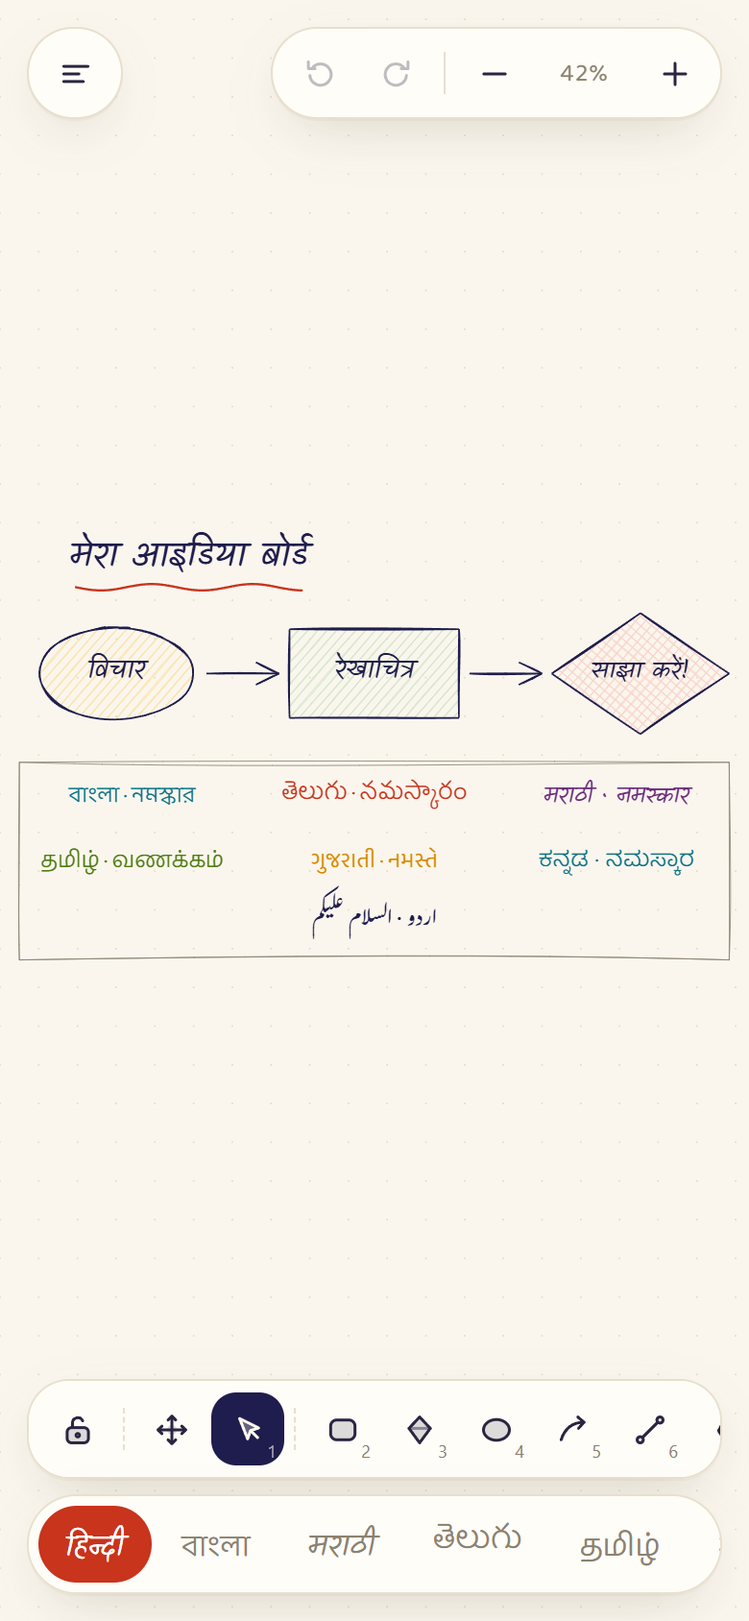
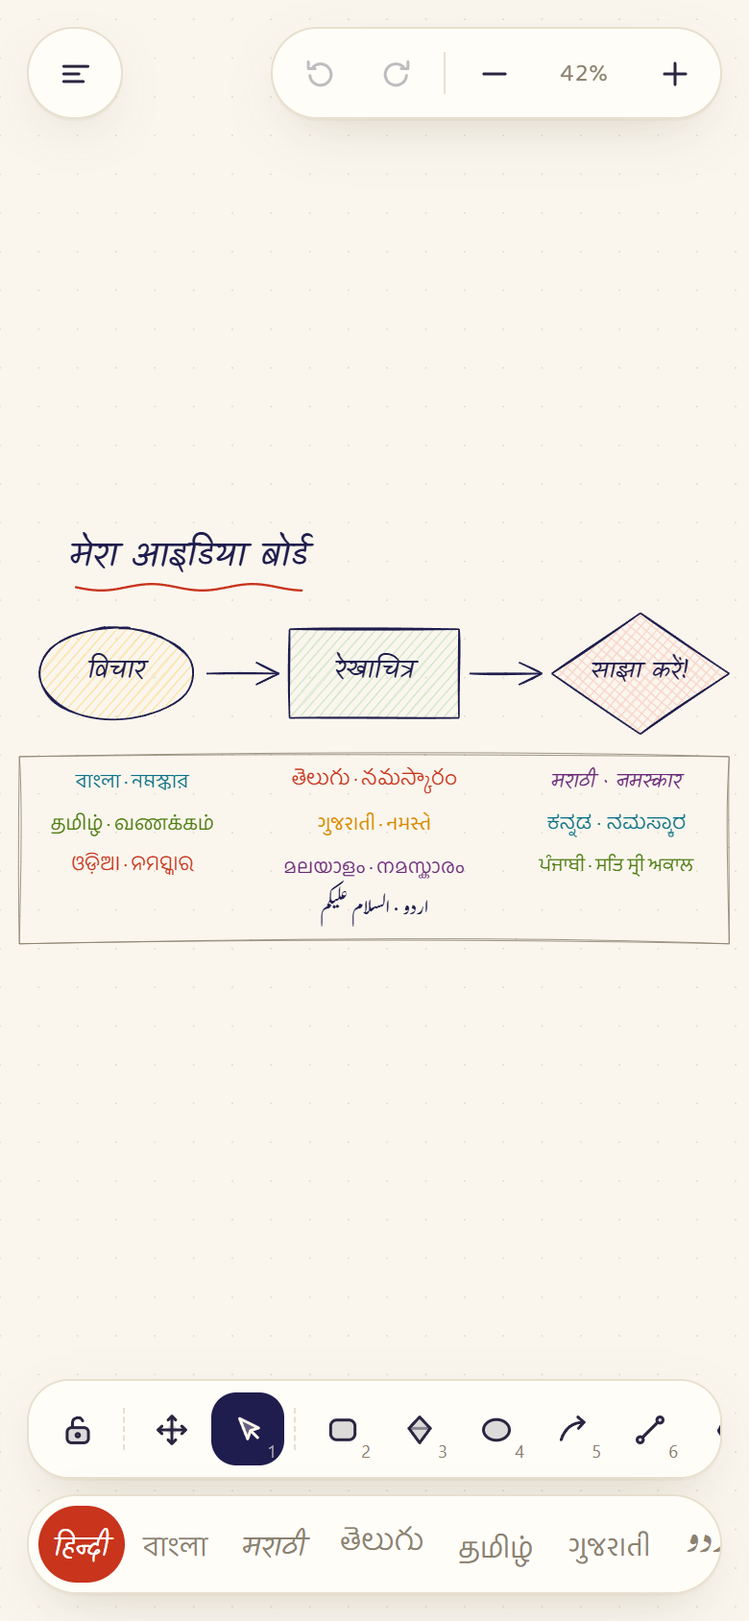
Add Malayalam, Odia and Punjabi
- UI translations, Baloo Chettan/Bhaina/Paaji fonts, script buttons
- Phonetic typing: Malayalam chillus and final anusvara, Odia ୟ,
  Gurmukhi tippi/addak and plain clusters
- README and screenshots/GIFs updated for 11 languages

diff --git a/i18n.js b/i18n.js
@@ -1,5 +1,5 @@
-// UI translations for the 8 most-spoken Indian languages (Census 2011) + English.
-// Order: Hindi, Bengali, Marathi, Telugu, Tamil, Gujarati, Urdu, Kannada.
+// UI translations for the 11 most-spoken Indian languages (Census 2011) + English.
+// Order: Hindi, Bengali, Marathi, Telugu, Tamil, Gujarati, Urdu, Kannada, Odia, Malayalam, Punjabi.
 
 window.SCRIPTS = {
   latn: { name: 'Latin',      glyph: 'Aa', font: 'Kalam',            lh: 1.4,  rtl: false },
@@ -10,12 +10,16 @@ window.SCRIPTS = {
   gujr: { name: 'ગુજરાતી',     glyph: 'અ',  font: 'Baloo Bhai 2',     lh: 1.45, rtl: false },
   arab: { name: 'اردو',        glyph: 'ا',  font: 'Gulzar',           lh: 1.95, rtl: true  },
   knda: { name: 'ಕನ್ನಡ',       glyph: 'ಅ',  font: 'Baloo Tamma 2',    lh: 1.5,  rtl: false },
+  orya: { name: 'ଓଡ଼ିଆ',        glyph: 'ଅ',  font: 'Baloo Bhaina 2',   lh: 1.5,  rtl: false },
+  mlym: { name: 'മലയാളം',     glyph: 'അ',  font: 'Baloo Chettan 2',  lh: 1.5,  rtl: false },
+  guru: { name: 'ਗੁਰਮੁਖੀ',      glyph: 'ਅ',  font: 'Baloo Paaji 2',    lh: 1.5,  rtl: false },
 };
 
 // Example word shown in the phonetic-typing hint, per script.
 window.PHONETIC_EXAMPLES = {
   deva: 'namaste', beng: 'namaskaar', telu: 'telugu', taml: 'vaNakkam',
   gujr: 'gujaraatee', arab: 'salaam', knda: 'kannaDa',
+  orya: 'namaskaar', mlym: 'malayaaLam', guru: 'panjaabee',
 };
 
 window.LANGS = {
@@ -27,6 +31,9 @@ window.LANGS = {
   gu: { native: 'ગુજરાતી', script: 'gujr', ui: 'Baloo Bhai 2', rtl: false },
   ur: { native: 'اردو', script: 'arab', ui: 'Noto Naskh Arabic', rtl: true },
   kn: { native: 'ಕನ್ನಡ', script: 'knda', ui: 'Baloo Tamma 2', rtl: false },
+  or: { native: 'ଓଡ଼ିଆ', script: 'orya', ui: 'Baloo Bhaina 2', rtl: false },
+  ml: { native: 'മലയാളം', script: 'mlym', ui: 'Baloo Chettan 2', rtl: false },
+  pa: { native: 'ਪੰਜਾਬੀ', script: 'guru', ui: 'Baloo Paaji 2', rtl: false },
   en: { native: 'English', script: 'latn', ui: 'Baloo 2', rtl: false },
 };
 
@@ -174,5 +181,53 @@ window.STRINGS = {
     welcomeSub: 'ಒಂದು ಉಪಕರಣವನ್ನು ಆರಿಸಿ ಚಿತ್ರಿಸಲು ಪ್ರಾರಂಭಿಸಿ. ಬರೆಯಲು ಎಲ್ಲಿಯಾದರೂ ಡಬಲ್-ಕ್ಲಿಕ್ ಮಾಡಿ.',
     theme: 'ಡಾರ್ಕ್ ಮೋಡ್', layers: 'ಪದರಗಳು', actions: 'ಕ್ರಿಯೆಗಳು', zoomIn: 'ಝೂಮ್ ಇನ್', zoomOut: 'ಝೂಮ್ ಔಟ್',
     resetZoom: 'ಝೂಮ್ ಮರುಹೊಂದಿಸಿ', sample: 'ನಮಸ್ಕಾರ ಜಗತ್ತು',
+  },
+  or: {
+    appName: 'ରେଖା', select: 'ଚୟନ', hand: 'ହାତ (ଘୁଞ୍ଚାନ୍ତୁ)', rect: 'ଆୟତକ୍ଷେତ୍ର', diamond: 'ହୀରା',
+    ellipse: 'ଉପବୃତ୍ତ', arrow: 'ତୀର', line: 'ରେଖା', draw: 'ପେନ୍ସିଲ', text: 'ଲେଖା', eraser: 'ରବର',
+    lock: 'ଉପକରଣ ସକ୍ରିୟ ରଖନ୍ତୁ', stroke: 'ରେଖାର ରଙ୍ଗ', background: 'ପୃଷ୍ଠଭୂମି', fill: 'ଭରଣ', hachure: 'ତେରଛା ରେଖା',
+    cross: 'ଜାଲି', solid: 'ଘନ', strokeWidth: 'ରେଖାର ମୋଟେଇ', thin: 'ପତଳା', bold: 'ମୋଟା',
+    extraBold: 'ବହୁତ ମୋଟା', sloppiness: 'ଅସଜଡ଼ା', architect: 'ସ୍ଥପତି', artist: 'କଳାକାର',
+    cartoonist: 'କାର୍ଟୁନିଷ୍ଟ', opacity: 'ଅସ୍ୱଚ୍ଛତା', fontSize: 'ଅକ୍ଷରର ଆକାର', small: 'ଛୋଟ', medium: 'ମଧ୍ୟମ',
+    large: 'ବଡ଼', huge: 'ବହୁତ ବଡ଼', script: 'ଲିପି', phonetic: 'ଧ୍ୱନିଭିତ୍ତିକ ଟାଇପିଂ (ରୋମାନ → ଲିପି)',
+    undo: 'ପୂର୍ବାବସ୍ଥାକୁ ଫେରନ୍ତୁ', redo: 'ପୁଣି କରନ୍ତୁ', delete: 'ବିଲୋପ କରନ୍ତୁ', duplicate: 'ନକଲ କରନ୍ତୁ', front: 'ସବୁଠୁ ଆଗକୁ ଆଣନ୍ତୁ',
+    back: 'ସବୁଠୁ ପଛକୁ ପଠାନ୍ତୁ', clear: 'କ୍ୟାନଭାସ ସଫା କରନ୍ତୁ', clearConfirm: 'ପୂରା କ୍ୟାନଭାସ ସଫା କରିବେ କି?',
+    exportPng: 'PNG ରପ୍ତାନି', exportSvg: 'SVG ରପ୍ତାନି', save: 'ଫାଇଲରେ ସଞ୍ଚୟ କରନ୍ତୁ', open: 'ଫାଇଲ ଖୋଲନ୍ତୁ',
+    lang: 'ଭାଷା', welcome: 'ଆପଣଙ୍କ ଚିନ୍ତାଧାରା ଆଙ୍କନ୍ତୁ!',
+    welcomeSub: 'ଏକ ଉପକରଣ ବାଛି ଆଙ୍କିବା ଆରମ୍ଭ କରନ୍ତୁ। ଲେଖିବା ପାଇଁ ଯେକୌଣସି ସ୍ଥାନରେ ଡବଲ-କ୍ଲିକ କରନ୍ତୁ।',
+    theme: 'ଡାର୍କ ମୋଡ', layers: 'ସ୍ତର', actions: 'କାର୍ଯ୍ୟ', zoomIn: 'ଜୁମ ଇନ', zoomOut: 'ଜୁମ ଆଉଟ',
+    resetZoom: 'ଜୁମ ରିସେଟ', sample: 'ନମସ୍କାର ଦୁନିଆ',
+  },
+  ml: {
+    appName: 'രേഖ', select: 'തിരഞ്ഞെടുക്കുക', hand: 'കൈ (നീക്കുക)', rect: 'ദീർഘചതുരം', diamond: 'വജ്രം',
+    ellipse: 'ദീർഘവൃത്തം', arrow: 'അമ്പ്', line: 'വര', draw: 'പെൻസിൽ', text: 'എഴുത്ത്', eraser: 'മായ്ക്കൽ',
+    lock: 'ഉപകരണം സജീവമാക്കി വയ്ക്കുക', stroke: 'വരയുടെ നിറം', background: 'പശ്ചാത്തലം', fill: 'നിറയ്ക്കൽ', hachure: 'ചരിഞ്ഞ വരകൾ',
+    cross: 'വല', solid: 'കട്ടി', strokeWidth: 'വരയുടെ കനം', thin: 'നേർത്ത', bold: 'കനത്ത',
+    extraBold: 'വളരെ കനത്ത', sloppiness: 'അലസത', architect: 'വാസ്തുശില്പി', artist: 'കലാകാരൻ',
+    cartoonist: 'കാർട്ടൂണിസ്റ്റ്', opacity: 'അതാര്യത', fontSize: 'അക്ഷര വലുപ്പം', small: 'ചെറുത്', medium: 'ഇടത്തരം',
+    large: 'വലുത്', huge: 'വളരെ വലുത്', script: 'ലിപി', phonetic: 'സ്വനിക ടൈപ്പിങ് (റോമൻ → ലിപി)',
+    undo: 'പഴയപടിയാക്കുക', redo: 'വീണ്ടും ചെയ്യുക', delete: 'ഇല്ലാതാക്കുക', duplicate: 'പകർപ്പെടുക്കുക', front: 'ഏറ്റവും മുന്നിലേക്ക്',
+    back: 'ഏറ്റവും പിന്നിലേക്ക്', clear: 'ക്യാൻവാസ് മായ്ക്കുക', clearConfirm: 'മുഴുവൻ ക്യാൻവാസും മായ്ക്കണോ?',
+    exportPng: 'PNG എക്സ്പോർട്ട്', exportSvg: 'SVG എക്സ്പോർട്ട്', save: 'ഫയലിൽ സംരക്ഷിക്കുക', open: 'ഫയൽ തുറക്കുക',
+    lang: 'ഭാഷ', welcome: 'നിങ്ങളുടെ ആശയങ്ങൾ വരയ്ക്കൂ!',
+    welcomeSub: 'ഒരു ഉപകരണം തിരഞ്ഞെടുത്ത് വരയ്ക്കാൻ തുടങ്ങൂ. എഴുതാൻ എവിടെയും ഡബിൾ-ക്ലിക്ക് ചെയ്യൂ.',
+    theme: 'ഡാർക്ക് മോഡ്', layers: 'പാളികൾ', actions: 'പ്രവർത്തനങ്ങൾ', zoomIn: 'സൂം ഇൻ', zoomOut: 'സൂം ഔട്ട്',
+    resetZoom: 'സൂം പുനഃസജ്ജമാക്കുക', sample: 'നമസ്കാരം ലോകമേ',
+  },
+  pa: {
+    appName: 'ਰੇਖਾ', select: 'ਚੋਣ', hand: 'ਹੱਥ (ਖਿਸਕਾਓ)', rect: 'ਆਇਤ', diamond: 'ਹੀਰਾ',
+    ellipse: 'ਅੰਡਾਕਾਰ', arrow: 'ਤੀਰ', line: 'ਲਕੀਰ', draw: 'ਪੈਨਸਿਲ', text: 'ਲਿਖਤ', eraser: 'ਰਬੜ',
+    lock: 'ਟੂਲ ਚਾਲੂ ਰੱਖੋ', stroke: 'ਲਕੀਰ ਦਾ ਰੰਗ', background: 'ਪਿਛੋਕੜ', fill: 'ਭਰਾਈ', hachure: 'ਤਿਰਛੀਆਂ ਲਕੀਰਾਂ',
+    cross: 'ਜਾਲੀ', solid: 'ਠੋਸ', strokeWidth: 'ਲਕੀਰ ਦੀ ਮੋਟਾਈ', thin: 'ਪਤਲੀ', bold: 'ਮੋਟੀ',
+    extraBold: 'ਬਹੁਤ ਮੋਟੀ', sloppiness: 'ਬੇਤਰਤੀਬੀ', architect: 'ਆਰਕੀਟੈਕਟ', artist: 'ਕਲਾਕਾਰ',
+    cartoonist: 'ਕਾਰਟੂਨਿਸਟ', opacity: 'ਅਪਾਰਦਰਸ਼ਤਾ', fontSize: 'ਅੱਖਰ ਦਾ ਆਕਾਰ', small: 'ਛੋਟਾ', medium: 'ਦਰਮਿਆਨਾ',
+    large: 'ਵੱਡਾ', huge: 'ਬਹੁਤ ਵੱਡਾ', script: 'ਲਿਪੀ', phonetic: 'ਧੁਨੀ ਅਧਾਰਿਤ ਟਾਈਪਿੰਗ (ਰੋਮਨ → ਲਿਪੀ)',
+    undo: 'ਵਾਪਸ ਕਰੋ', redo: 'ਦੁਬਾਰਾ ਕਰੋ', delete: 'ਮਿਟਾਓ', duplicate: 'ਨਕਲ ਬਣਾਓ', front: 'ਸਭ ਤੋਂ ਅੱਗੇ ਲਿਆਓ',
+    back: 'ਸਭ ਤੋਂ ਪਿੱਛੇ ਭੇਜੋ', clear: 'ਕੈਨਵਸ ਸਾਫ਼ ਕਰੋ', clearConfirm: 'ਕੀ ਤੁਸੀਂ ਪੂਰਾ ਕੈਨਵਸ ਸਾਫ਼ ਕਰਨਾ ਚਾਹੁੰਦੇ ਹੋ?',
+    exportPng: 'PNG ਨਿਰਯਾਤ ਕਰੋ', exportSvg: 'SVG ਨਿਰਯਾਤ ਕਰੋ', save: 'ਫ਼ਾਈਲ ਵਿੱਚ ਸੰਭਾਲੋ', open: 'ਫ਼ਾਈਲ ਖੋਲ੍ਹੋ',
+    lang: 'ਭਾਸ਼ਾ', welcome: 'ਆਪਣੇ ਵਿਚਾਰਾਂ ਨੂੰ ਚਿੱਤਰੋ!',
+    welcomeSub: 'ਕੋਈ ਟੂਲ ਚੁਣੋ ਅਤੇ ਡਰਾਇੰਗ ਸ਼ੁਰੂ ਕਰੋ। ਲਿਖਣ ਲਈ ਕਿਤੇ ਵੀ ਡਬਲ-ਕਲਿੱਕ ਕਰੋ।',
+    theme: 'ਡਾਰਕ ਮੋਡ', layers: 'ਪਰਤਾਂ', actions: 'ਕਾਰਵਾਈਆਂ', zoomIn: 'ਜ਼ੂਮ ਇਨ', zoomOut: 'ਜ਼ੂਮ ਆਊਟ',
+    resetZoom: 'ਜ਼ੂਮ ਰੀਸੈੱਟ', sample: 'ਸਤਿ ਸ੍ਰੀ ਅਕਾਲ ਦੁਨੀਆ',
   },
 };

diff --git a/translit.js b/translit.js
@@ -3,8 +3,10 @@
 // Devanagari once and then shift code points into the target script's block.
 (function () {
   const VIRAMA = '्';
-  const OFFSET = { deva: 0, beng: 0x80, gujr: 0x180, taml: 0x280, telu: 0x300, knda: 0x380 };
-  const DRAVIDIAN = new Set(['taml', 'telu', 'knda']);
+  const OFFSET = { deva: 0, beng: 0x80, guru: 0x100, gujr: 0x180, orya: 0x200, taml: 0x280, telu: 0x300, knda: 0x380, mlym: 0x400 };
+  const DRAVIDIAN = new Set(['taml', 'telu', 'knda', 'mlym']);
+  // Scripts where a bare consonant is written with a visible virama (pulli / chandrakkala).
+  const EXPLICIT_A = new Set(['taml', 'mlym']);
 
   const VOWELS = {
     a: ['अ', ''], aa: ['आ', 'ा'], A: ['आ', 'ा'],
@@ -27,6 +29,9 @@
   };
   // Tamil-only letters: zh → ழ, R → ற, nn → ன (via their Devanagari twins).
   const TAMIL_CONS = { zh: 'ऴ', R: 'ऱ', nn: 'ऩ' };
+  const MALAYALAM_CONS = { zh: 'ऴ', R: 'ऱ' };
+  // Malayalam word-final consonants: chillu letters, and m → anusvara (ം).
+  const MALAYALAM_FINAL = { 'ण': 'ൺ', 'न': 'ൻ', 'र': 'ർ', 'ल': 'ൽ', 'ळ': 'ൾ', 'म': 'ं' };
 
   const SIGNS = { M: 'ं', H: 'ः', '~': 'ँ', '|': '।', '||': '॥' };
 
@@ -50,10 +55,17 @@
     const vowels = DRAVIDIAN.has(script) ? { ...VOWELS, ...DRAV_VOWELS } : { ...VOWELS };
     const cons = { ...CONS };
     if (script === 'taml') { Object.assign(cons, TAMIL_CONS); delete vowels.R; }
+    if (script === 'mlym') { Object.assign(cons, MALAYALAM_CONS); delete vowels.R; }
     const vk = tokens(vowels), ck = tokens(cons), sk = tokens(SIGNS);
-    const explicitA = script === 'taml'; // Tamil: bare consonant gets a pulli
+    const explicitA = EXPLICIT_A.has(script);
 
-    let out = '', pending = false, i = 0;
+    let out = '', pending = false, last = '', i = 0;
+    // A word ended on a bare consonant.
+    const endWord = () => {
+      if (!pending || !explicitA) return;
+      if (script === 'mlym' && MALAYALAM_FINAL[last]) out = out.slice(0, -last.length) + MALAYALAM_FINAL[last];
+      else out += VIRAMA;
+    };
     while (i < input.length) {
       const c = matchAt(input, i, cons, ck);
       const v = matchAt(input, i, vowels, vk);
@@ -61,7 +73,7 @@
       const best = [c, v, s].reduce((a, b) => (b && (!a || b.length > a.length) ? b : a), null);
       if (best && best === c) {
         if (pending) out += VIRAMA;
-        out += cons[c]; pending = true; i += c.length;
+        out += cons[c]; last = cons[c]; pending = true; i += c.length;
       } else if (best && best === v) {
         out += pending ? vowels[v][1] : vowels[v][0];
         pending = false; i += v.length;
@@ -73,11 +85,11 @@
         if (pending && explicitA && s !== 'M' && s !== 'H' && s !== '~') out += VIRAMA;
         out += SIGNS[s]; pending = false; i += s.length;
       } else {
-        if (pending && explicitA) out += VIRAMA;
+        endWord();
         out += input[i]; pending = false; i += 1;
       }
     }
-    if (pending && explicitA) out += VIRAMA;
+    endWord();
     return toScript(out, script);
   }
 
@@ -87,6 +99,18 @@
     if (script === 'taml') s = [...s].map((ch) => TAMIL_COLLAPSE[ch] || ch).join('');
     if (script === 'beng') s = s.replace(/व/g, 'ब').replace(/ळ/g, 'ल');
     if (script === 'knda') s = s.replace(/ँ/g, 'ं');
+    if (script === 'orya') {
+      // Odia has no common व; standalone य is written ୟ (य-phala keeps ଯ).
+      s = s.replace(/व/g, 'ब').replace(/(?<!्)य/g, 'य़');
+    }
+    if (script === 'guru') {
+      // Gurmukhi: no ऋ/ष; nasal before a consonant → tippi; doubled consonant → addak.
+      s = s.replace(/ऋ/g, 'रि').replace(/ृ/g, '्रि').replace(/ष/g, 'श')
+        .replace(/[नणङञ]्(?=[क-ह])/g, 'ੰ')
+        .replace(/([क-ह])्\1/g, 'ੱ$1')
+        // only ਰ ਵ ਹ take subjoined (pairin) forms; other clusters are written plainly
+        .replace(/्(?=[क-ह])(?![रवह])/g, '');
+    }
     const off = OFFSET[script];
     let res = '';
     for (const ch of s) {

diff --git a/styles.css b/styles.css
@@ -162,7 +162,7 @@ body.dark #canvas, body.dark #editor { filter: invert(92%) hue-rotate(180deg); }
 }
 .ribbon::-webkit-scrollbar { display: none; }
 .chip {
-  flex: none; height: 40px; padding: 4px 14px 0; border: 0; border-radius: 20px;
+  flex: none; height: 40px; padding: 4px 12px 0; border: 0; border-radius: 20px;
   background: transparent; cursor: pointer; font-size: 16px; line-height: 1; white-space: nowrap; color: var(--muted);
   transition: background .12s, color .12s;
 }
@@ -182,10 +182,14 @@ body.dark #canvas, body.dark #editor { filter: invert(92%) hue-rotate(180deg); }
 .welcome h1 { margin: 2px 0 4px; font-size: 22px; font-weight: 600; color: var(--text); }
 .welcome p { margin: 0 auto; max-width: 420px; font-size: 15px; }
 .welcome-greetings {
-  margin: 26px auto 0; display: grid; grid-template-columns: repeat(4, auto); gap: 8px 22px;
+  margin: 26px auto 0; display: flex; flex-wrap: wrap; gap: 8px 22px; max-width: 640px;
   justify-content: center; font-size: 17px; color: var(--ink); opacity: .55;
 }
+.welcome-greetings span { white-space: nowrap; }
 
+@media (max-width: 1000px) {
+  .chip { padding-inline: 8px; font-size: 15px; }
+}
 @media (max-width: 720px) {
   .rail { top: auto; bottom: 74px; transform: none; inset-inline-start: 50%; translate: -50% 0; flex-direction: row; overflow-x: auto; max-width: calc(100vw - 28px); scrollbar-width: none; }
   [dir=rtl] .rail { translate: 50% 0; }
@@ -196,7 +200,7 @@ body.dark #canvas, body.dark #editor { filter: invert(92%) hue-rotate(180deg); }
   .props { top: 72px; width: 196px; max-height: calc(100vh - 220px); }
   .welcome { padding: 0 20px 140px; }
   .welcome-mark { font-size: 60px; }
-  .welcome-greetings { grid-template-columns: repeat(2, auto); }
+  .welcome-greetings { gap: 6px 16px; font-size: 15px; }
 }
 
 /* ---------- duotone icons ---------- */

diff --git a/index.html b/index.html
@@ -6,7 +6,7 @@
   <title>Rekha Board</title>
   <link rel="preconnect" href="https://fonts.googleapis.com" />
   <link rel="preconnect" href="https://fonts.gstatic.com" crossorigin />
-  <link rel="stylesheet" href="https://fonts.googleapis.com/css2?family=Kalam:wght@400;700&family=Baloo+2:wght@400;600;700&family=Baloo+Da+2:wght@400;600&family=Baloo+Tammudu+2:wght@400;600&family=Baloo+Thambi+2:wght@400;600&family=Baloo+Bhai+2:wght@400;600&family=Baloo+Tamma+2:wght@400;600&family=Gulzar&family=Noto+Naskh+Arabic:wght@400;600&display=swap" />
+  <link rel="stylesheet" href="https://fonts.googleapis.com/css2?family=Kalam:wght@400;700&family=Baloo+2:wght@400;600;700&family=Baloo+Da+2:wght@400;600&family=Baloo+Tammudu+2:wght@400;600&family=Baloo+Thambi+2:wght@400;600&family=Baloo+Bhai+2:wght@400;600&family=Baloo+Tamma+2:wght@400;600&family=Baloo+Bhaina+2:wght@400;600&family=Baloo+Chettan+2:wght@400;600&family=Baloo+Paaji+2:wght@400;600&family=Gulzar&family=Noto+Naskh+Arabic:wght@400;600&display=swap" />
   <link rel="stylesheet" href="styles.css" />
   <script src="https://cdn.jsdelivr.net/npm/roughjs@4.6.6/bundled/rough.js"></script>
 </head>

diff --git a/app.js b/app.js
@@ -1099,7 +1099,7 @@
         props.append(el('label', { class: 'toggle' }, [cb, el('span', { text: t('phonetic') })]));
         if (state.phonetic && PHONETIC_EXAMPLES[sc]) {
           const ex = PHONETIC_EXAMPLES[sc];
-          props.append(el('div', { class: 'hint', html: `<code>${ex}</code> → <b>${transliterate(ex, sc)}</b><br><code>aa ee oo</code> · <code>T D N Sh</code>${sc !== 'arab' ? ` · <code>^</code> = ${transliterate('k^', sc)}` : ''}${['taml', 'telu', 'knda'].includes(sc) ? ' · <code>e/E o/O</code>' : ''}${sc === 'taml' ? ' · <code>zh R</code>' : ''}` }));
+          props.append(el('div', { class: 'hint', html: `<code>${ex}</code> → <b>${transliterate(ex, sc)}</b><br><code>aa ee oo</code> · <code>T D N Sh</code>${sc !== 'arab' ? ` · <code>^</code> = ${transliterate('k^', sc)}` : ''}${['taml', 'telu', 'knda', 'mlym'].includes(sc) ? ' · <code>e/E o/O</code>' : ''}${['taml', 'mlym'].includes(sc) ? ' · <code>zh R</code>' : ''}` }));
         }
       }
     }

diff --git a/README.md b/README.md
@@ -4,14 +4,14 @@
 
 **A hand-drawn whiteboard that speaks India's languages.**
 
-Sketch diagrams, flowcharts and notes in Hindi, Bengali, Marathi, Telugu, Tamil, Gujarati, Urdu and Kannada,
+Sketch diagrams, flowcharts and notes in Hindi, Bengali, Marathi, Telugu, Tamil, Gujarati, Urdu, Kannada, Odia, Malayalam and Punjabi,
 with a fully translated interface and Roman-to-script typing built in.
 
-हिन्दी · বাংলা · मराठी · తెలుగు · தமிழ் · ગુજરાતી · اردو · ಕನ್ನಡ · English
+हिन्दी · বাংলা · मराठी · తెలుగు · தமிழ் · ગુજરાતી · اردو · ಕನ್ನಡ · ଓଡ଼ିଆ · മലയാളം · ਪੰਜਾਬੀ · English
 
 ### [▶ Try it live](https://swaroopdiwakar007.github.io/rekha-board/)
 
-![Rekha Board with a Hindi flowchart and greetings in all eight scripts](docs/hero.png)
+![Rekha Board with a Hindi flowchart and greetings in all eleven languages](docs/hero.png)
 
 </div>
 
@@ -27,7 +27,7 @@ Most whiteboard tools treat Indian scripts as an afterthought: the menus are Eng
 - **Every script gets its own handwriting-style font,** so your text sits naturally next to the sketchy shapes.
 - **You can type phonetically on any keyboard.** Write `namaste` and get नमस्ते, with no input method to install.
 
-The eight languages are India's most widely spoken (Census 2011), spoken by over 80% of Indians.
+The eleven languages are India's most widely spoken (Census 2011), spoken by over 90% of Indians.
 
 ---
 
@@ -41,7 +41,7 @@ Rectangles, diamonds, ellipses, arrows, lines and a freehand pen, all rendered w
 
 Turn on **phonetic typing** in the style card and type in Roman letters. Each word is converted as you type, and Backspace removes one Roman letter at a time.
 
-![Typing namaste duniyaa, vaNakkam ulagam, kannaDa kalike and salaam duniyaa, each converting into native script](docs/phonetic.gif)
+![Typing Hindi, Tamil, Malayalam, Punjabi, Kannada and Urdu phrases in Roman letters, each converting into native script](docs/phonetic.gif)
 
 | Script | You type | You get |
 | --- | --- | --- |
@@ -52,6 +52,9 @@ Turn on **phonetic typing** in the style card and type in Roman letters. Each wo
 | Gujarati | `gujaraatee` | ગુજરાતી |
 | Urdu | `salaam` · `kyaa` | سلام · کیا |
 | Kannada | `kannaDa` · `bas^` | ಕನ್ನಡ · ಬಸ್ |
+| Odia | `namaskaar` · `priya` | ନମସ୍କାର · ପ୍ରିୟ |
+| Malayalam | `malayaaLam` · `avan` | മലയാളം · അവൻ |
+| Punjabi (Gurmukhi) | `panjaabee` · `pakkaa` | ਪੰਜਾਬੀ · ਪੱਕਾ |
 
 Prefer your own keyboard or IME? Untick phonetic typing and type normally. Pasted text is never converted.
 
@@ -69,18 +72,20 @@ Prefer your own keyboard or IME? Untick phonetic typing and type normally. Paste
 | Halant (kill the vowel) | `^` | `p^` → ಪ್ |
 | Conjuncts | just type consonants together | `stree` → स्त्री |
 | Danda | `\|` · `\|\|` | । · ॥ |
-| Tamil, Telugu, Kannada | `e`/`o` short, `E`/`O` long | `telugu` → తెలుగు |
-| Tamil only | `zh` (ழ) · `R` (ற) · `nn` (ன) | `thamizh` → தமிழ் |
+| Tamil, Telugu, Kannada, Malayalam | `e`/`o` short, `E`/`O` long | `telugu` → తెలుగు |
+| Tamil and Malayalam | `zh` (ழ / ഴ) · `R` (ற / റ); Tamil also `nn` (ன) | `thamizh` → தமிழ் |
+| Malayalam word endings | final `n` `N` `l` `L` `r` become chillu letters, final `m` becomes ം | `avan` → അവൻ |
+| Punjabi | doubled consonants get an addak, `n` before a consonant gets a tippi | `pakkaa` → ਪੱਕਾ |
 | Urdu | `kh` (خ) · `Kh` (کھ) · `N` (ں) · `R` (ڑ) | `?` → ؟ |
 
 Letters are case-sensitive: `t` is त but `T` is ट.
 </details>
 
-## 🌐 Nine languages, one click
+## 🌐 Twelve languages, one click
 
-The **script ribbon** at the bottom switches the entire interface. Each language's button is written in its own script, and the app name changes with it: रेखा, রেখা, రేఖ, கோடு, રેખા, ریکھا, ರೇಖೆ.
+The **script ribbon** at the bottom switches the entire interface. Each language's button is written in its own script, and the app name changes with it: रेखा, রেখা, రేఖ, கோடு, રેખા, ریکھا, ರೇಖೆ, ରେଖା, രേഖ, ਰੇਖਾ.
 
-![Cycling through all nine interface languages](docs/languages.gif)
+![Cycling through all twelve interface languages](docs/languages.gif)
 
 ### Right-to-left for Urdu
 
@@ -107,7 +112,7 @@ Choosing اردو mirrors the whole layout: the tool rail, style card and menus 
 
 - **Shapes:** rectangle, diamond, ellipse, arrow, line, freehand pen, eraser
 - **Style:** six ink colours plus a custom picker, six fill colours, hatch / cross-hatch / solid fills, three stroke widths, three roughness levels, opacity
-- **Text:** four sizes, a choice of eight scripts per text box, multi-line, and auto-sizing
+- **Text:** four sizes, a choice of eleven scripts per text box, multi-line, and auto-sizing
 - **Editing:** select, marquee-select, move, resize from the corners (Shift keeps proportions), duplicate, Alt-drag to copy, bring to front / send to back, copy / cut / paste, arrow-key nudge
 - **Canvas:** infinite pan and zoom (10%–3000%), dot grid, undo / redo
 - **Files:** export **PNG** (2× resolution) or **SVG** (fonts linked), save and reopen `.rekha.json` drawings, automatic saving in your browser
@@ -148,9 +153,9 @@ Open **http://localhost:5180**. Any static file server works (`npx serve`, VS Co
 | [`i18n.js`](i18n.js) | Translated UI strings, plus the table of scripts, fonts and line heights |
 | [`translit.js`](translit.js) | Roman-to-Indic transliteration |
 
-**The transliteration trick:** Unicode lays out the Brahmic scripts in parallel blocks, so क (U+0915), ক (U+0995), ક (U+0A95), க (U+0B95), క (U+0C15) and ಕ (U+0C95) sit at the same offset in their blocks. `translit.js` converts Roman input to Devanagari once and then shifts each code point into the target script's block. It then patches each script's gaps: Tamil merges aspirated and voiced consonants and uses an explicit pulli, Bengali has no separate व, and Dravidian scripts distinguish short and long e and o. Urdu is an abjad, so it has its own position-aware mapping in which short vowels drop out mid-word.
+**The transliteration trick:** Unicode lays out the Brahmic scripts in parallel blocks, so क (U+0915), ক (U+0995), ਕ (U+0A15), ક (U+0A95), କ (U+0B15), க (U+0B95), క (U+0C15), ಕ (U+0C95) and ക (U+0D15) sit at the same offset in their blocks. `translit.js` converts Roman input to Devanagari once and then shifts each code point into the target script's block. It then patches each script's gaps: Tamil merges aspirated and voiced consonants and uses an explicit pulli, Bengali has no separate व, Dravidian scripts distinguish short and long e and o, Malayalam ends words with chillu letters, Gurmukhi uses tippi and addak instead of most conjuncts, and Odia writes standalone य as ୟ. Urdu is an abjad, so it has its own position-aware mapping in which short vowels drop out mid-word.
 
-**Fonts:** [Kalam](https://fonts.google.com/specimen/Kalam) (Latin and Devanagari), the [Baloo 2](https://fonts.google.com/specimen/Baloo+2) family (Bengali, Telugu, Tamil, Gujarati, Kannada) and [Gulzar](https://fonts.google.com/specimen/Gulzar) (Urdu), all from Google Fonts.
+**Fonts:** [Kalam](https://fonts.google.com/specimen/Kalam) (Latin and Devanagari), the [Baloo 2](https://fonts.google.com/specimen/Baloo+2) family (Bengali, Telugu, Tamil, Gujarati, Kannada, Odia, Malayalam, Gurmukhi) and [Gulzar](https://fonts.google.com/specimen/Gulzar) (Urdu), all from Google Fonts.
 
 ## Credits
 
